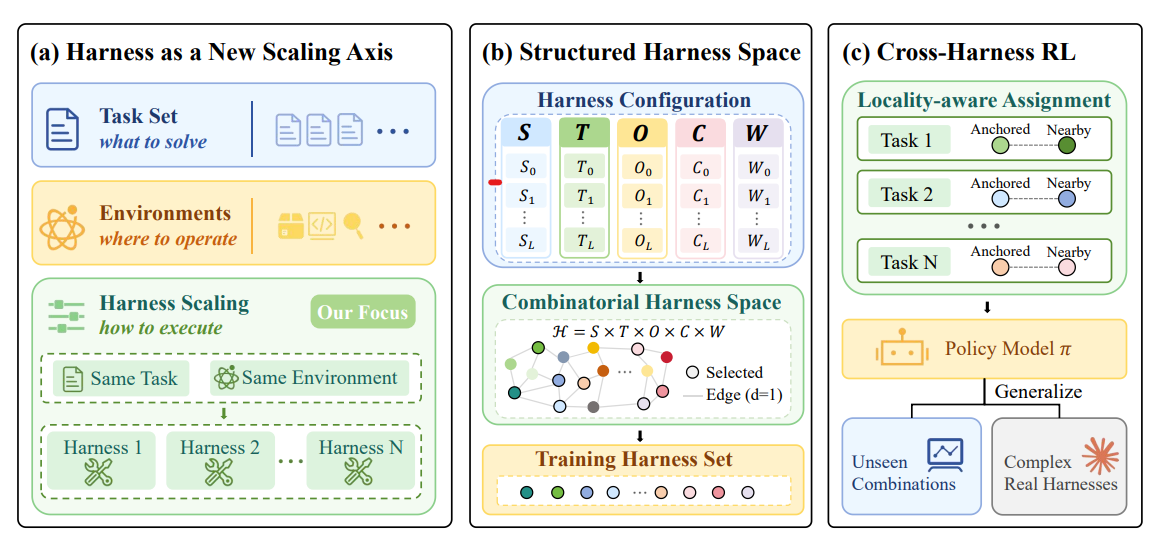
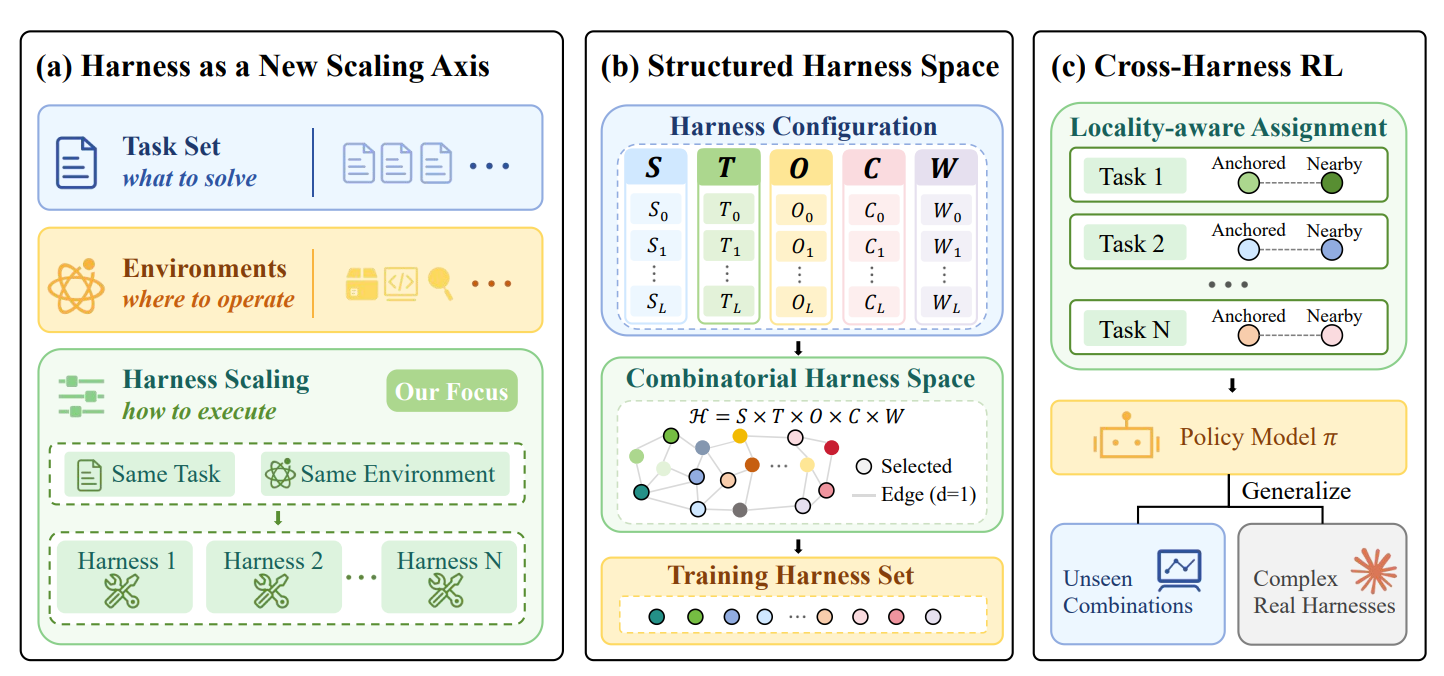
overview-1022

Changed region(s): [[0.0, 0.0312, 0.9914, 1.0]]

diff --git a/README.md b/README.md
@@ -39,7 +39,7 @@ We represent each harness through five configurable components:
 - **Context Management (C):** How interaction history is retained or compressed.
 - **Workflow (W):** How planning, checking, and execution procedures are organized.
 
-With **three realizations for each component**, the factorized space contains **3⁵ = 243 harness configurations**. We measure structural proximity using **Hamming distance**, which counts the components on which two configurations differ.
+Combining alternative realizations of these components creates a **factorized harness space**. We measure structural proximity using **Hamming distance**, which counts the components on which two configurations differ.
 
 This controlled space enables two complementary generalization tests: **unseen combinations** within the factorized space and **unseen external black-box harnesses** beyond it.
 
@@ -47,7 +47,7 @@ This controlled space enables two complementary generalization tests: **unseen c
 
 More harness configurations do not necessarily lead to stronger learning under a fixed training budget. Exhaustively covering the full space may spread optimization across redundant combinations.
 
-We therefore use a **strength-2 orthogonal design** to select **18 training harnesses** from the 243 possible configurations, preserving:
+We therefore use an **orthogonal design** to select a **compact, representative training set** from the harness space, preserving:
 
 - **Component balance:** Each realization of every component is represented evenly.
 - **Pairwise combination balance:** Realization pairs across any two components occur equally often.
@@ -58,13 +58,13 @@ The objective is not simply to maximize harness diversity, but to **organize tha
 
 After selecting the training configurations, we use **locality-aware task assignment** to determine how tasks are distributed across harnesses.
 
-For each task, we randomly sample an **anchor harness** and assign its nearest configurations according to Hamming distance. In the main experiments, **K = 2**, so each task is trained under two related but distinct harnesses over successive optimization steps.
+For each task, we randomly sample an **anchor harness** and assign nearby configurations according to Hamming distance. Each task is trained under related but distinct harnesses over successive optimization steps.
 
 Random anchors provide **global coverage** across the training set, while nearby configurations provide **controlled local variation** for the same task. Harness Scaling changes the organization of task–harness experiences rather than requiring a new RL objective, and is compatible with both **GRPO** and **PPO**.
 
 ## 📊 Main Results
 
-We train **Qwen3-4B-Instruct** and **Qwen3-30B-A3B-Instruct** on **13.5K ClawGym-Task instances**, and evaluate on **ClawGym-Bench**, **PinchBench**, and **JobBench-Easy**. Evaluation covers **18 held-out white-box configurations** and external black-box harnesses, including **Claude Code** and **OpenClaw**.
+We train **Qwen3-4B-Instruct** and **Qwen3-30B-A3B-Instruct** on **ClawGym-Task**, and evaluate on **ClawGym-Bench**, **PinchBench**, and **JobBench-Easy**. Evaluation covers **held-out white-box configurations** and external black-box harnesses, including **Claude Code** and **OpenClaw**.
 
 ### Generalization to Unseen Harness Configurations
 
@@ -82,13 +82,13 @@ A key finding is that **structured white-box harness training transfers effectiv
   <img src="./fig/black.png" width="850" alt="Claude Code evaluation comparing black-box SFT, black-box RL, and Harness Scaling across three benchmarks and both model sizes" />
 </p>
 
-*Average Pass@1 over ClawGym-Bench, JobBench-Easy, and PinchBench, evaluated through Claude Code.* Additional OpenClaw evaluations show a consistent transfer trend.
+Additional OpenClaw evaluations show a consistent transfer trend.
 
 ### The Organization of Harness Diversity Matters
 
-Under a matched training budget, the **structured 18-harness set** outperforms a randomly selected set of the same size. It also outperforms training across all 243 configurations in the fixed-budget comparison. **The full-space comparison includes the white-box evaluation configurations**, so it is a stress test rather than a held-out generalization result.
+Under a matched training budget, the **structured training set** outperforms both a randomly selected set of the same size and training across the full harness space. **The full-space comparison includes the white-box evaluation configurations**, so it is a stress test rather than a held-out generalization result.
 
-Assigning **two nearby harnesses per task** works better than using only one or increasing to four in the reported experiments. Locality-aware assignment also improves over random assignment.
+Assigning **a small set of nearby harnesses per task** works better than using a single harness or spreading each task across too many configurations. Locality-aware assignment also improves over random assignment.
 
 <p align="center">
   <img src="./fig/abla.png" width="850" alt="Ablations on training harness set size and harnesses per task" />
@@ -105,8 +105,6 @@ Harness Scaling particularly improves **state tracking, workflow compliance, and
 <p align="center">
   <img src="./fig/analysis.png" width="850" alt="Execution capability profiles and cross-harness reward consistency" />
 </p>
-
-Importantly, for **Qwen3-30B-A3B-Instruct with GRPO** on ClawGym-Bench, these gains come with little change to the original training harness: **−0.19** points on the base harness, versus **+10.48** points on held-out white-box configurations and **+3.60** points on Claude Code.
 
 ## 📄 Citation
 
